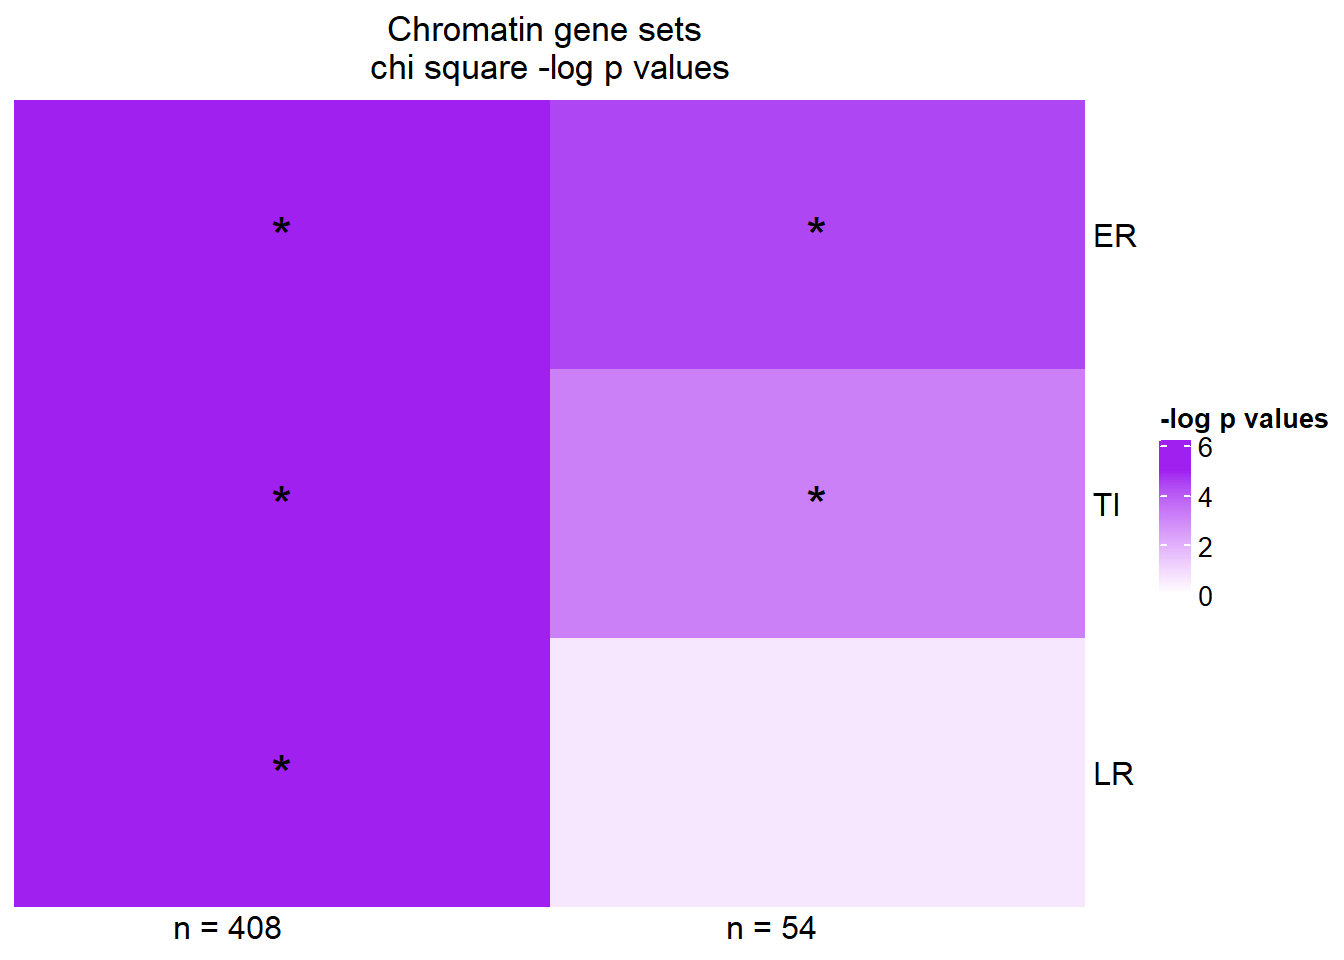
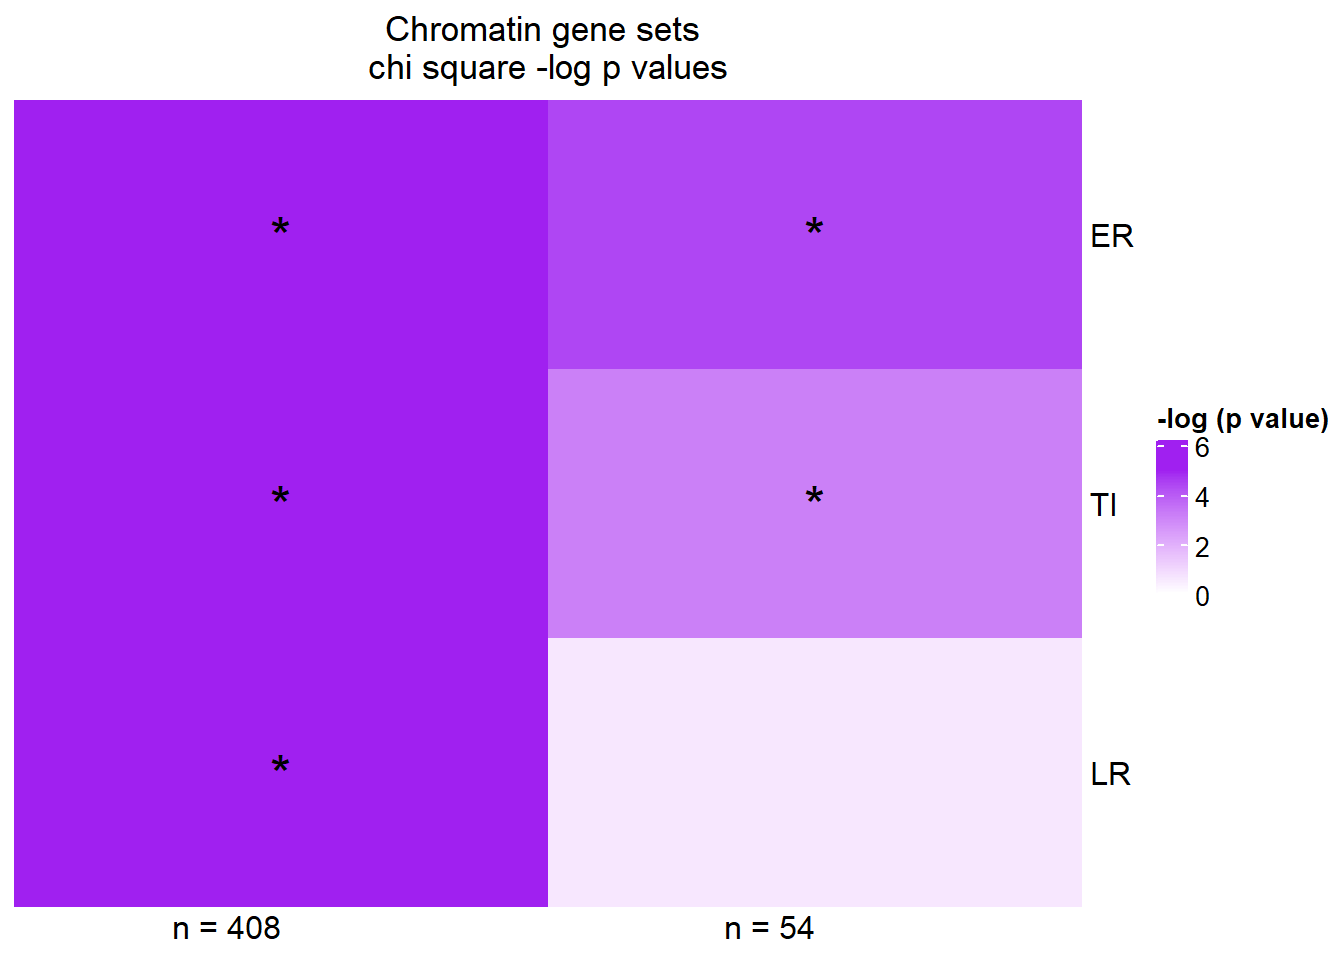
Build site.

diff --git a/docs/other_analysis.html b/docs/other_analysis.html
@@ -523,15 +523,15 @@ project makes it easier to run your code on other machines.</p>
 <div class="panel panel-default">
 <div class="panel-heading">
 <p class="panel-title">
-<a data-toggle="collapse" data-parent="#workflowr-checks" href="#strongRepositoryversionstrongahrefhttpsgithubcomreneeisnowhereCardiotoxicitytreee02ca18cfdba1a09e2f8024c8fe2ae3f4d2c8953targetblanke02ca18a">
+<a data-toggle="collapse" data-parent="#workflowr-checks" href="#strongRepositoryversionstrongahrefhttpsgithubcomreneeisnowhereCardiotoxicitytree9afd6a00b03f24ef204973a84e91a5cba0dbce25targetblank9afd6a0a">
 <span class="glyphicon glyphicon-ok text-success"
 aria-hidden="true"></span> <strong>Repository version:</strong>
-<a href="https://github.com/reneeisnowhere/Cardiotoxicity/tree/e02ca18cfdba1a09e2f8024c8fe2ae3f4d2c8953" target="_blank">e02ca18</a>
+<a href="https://github.com/reneeisnowhere/Cardiotoxicity/tree/9afd6a00b03f24ef204973a84e91a5cba0dbce25" target="_blank">9afd6a0</a>
 </a>
 </p>
 </div>
 <div
[2 lines of base64/hex data omitted]
 class="panel-collapse collapse">
 <div class="panel-body">
 <p>
@@ -541,7 +541,7 @@ reproducibility.
 </p>
 <p>
 The results in this page were generated with repository version
-<a href="https://github.com/reneeisnowhere/Cardiotoxicity/tree/e02ca18cfdba1a09e2f8024c8fe2ae3f4d2c8953" target="_blank">e02ca18</a>.
+<a href="https://github.com/reneeisnowhere/Cardiotoxicity/tree/9afd6a00b03f24ef204973a84e91a5cba0dbce25" target="_blank">9afd6a0</a>.
 See the <em>Past versions</em> tab to see a history of the changes made
 to the R Markdown and HTML files.
 </p>
@@ -677,32 +677,7 @@ Untracked files:
     Untracked:  motif_LR.txt
     Untracked:  motif_NR.txt
     Untracked:  motif_TI.txt
-    Untracked:  output/DNRmeQTLs.RDS
-    Untracked:  output/DNRmeSNPs.RDS
-    Untracked:  output/DNRreQTLs.RDS
-    Untracked:  output/DOXmeQTLs.RDS
-    Untracked:  output/DOXmeSNPs.RDS
-    Untracked:  output/DOXreQTLs.RDS
-    Untracked:  output/EPImeQTLs.RDS
-    Untracked:  output/EPImeSNPs.RDS
-    Untracked:  output/EPIreQTLs.RDS
-    Untracked:  output/Fig_summary1.png
-    Untracked:  output/GWAS_goi.csv
-    Untracked:  output/MTXmeQTLs.RDS
-    Untracked:  output/MTXmeSNPs.RDS
-    Untracked:  output/MTXreQTLs.RDS
-    Untracked:  output/Sup4seoane.csv
-    Untracked:  output/egenes.csv
-    Untracked:  output/egenes_hgnc.csv
-    Untracked:  output/egenes_set.csv
-    Untracked:  output/figure_1.Rmd
-    Untracked:  output/heart_gtex.csv
-    Untracked:  output/knowles4.RDS
-    Untracked:  output/knowles5.RDS
-    Untracked:  output/not_eqtls_GTEX.csv
     Untracked:  output/output-old/
-    Untracked:  output/plan2plot.png
-    Untracked:  output/plan48ldh.png
     Untracked:  reneebasecode.R
 
 </code></pre>
@@ -749,6 +724,40 @@ Message
 </tr>
 </thead>
 <tbody>
+<tr>
+<td>
+Rmd
+</td>
+<td>
+<a href="https://github.com/reneeisnowhere/Cardiotoxicity/blob/9afd6a00b03f24ef204973a84e91a5cba0dbce25/analysis/other_analysis.Rmd" target="_blank">9afd6a0</a>
+</td>
+<td>
+reneeisnowhere
+</td>
+<td>
+2023-06-15
+</td>
+<td>
+fixing wflow error
+</td>
+</tr>
+<tr>
+<td>
+html
+</td>
+<td>
+<a href="https://rawcdn.githack.com/reneeisnowhere/Cardiotoxicity/6b03af2d301e424370c468bea4857b159cbb7df8/docs/other_analysis.html" target="_blank">6b03af2</a>
+</td>
+<td>
+reneeisnowhere
+</td>
+<td>
+2023-06-15
+</td>
+<td>
+Build site.
+</td>
+</tr>
 <tr>
 <td>
 html
@@ -5729,9 +5738,9 @@ supp45Xmat &lt;- supp45X %&gt;%
   rename(c(&quot;n = 408&quot;= pval1, &quot;n = 54&quot;=pval4)) %&gt;% 
   as.matrix()
 
-Heatmap( supp45Xmat,
+Heatmap(supp45Xmat,
          column_title=&quot;Chromatin gene sets \nchi square -log p values&quot;, 
-         name = &quot;-log p values&quot;, 
+         name = &quot;-log (p value)&quot;, 
          cluster_rows = FALSE, 
          cluster_columns = FALSE, 
          column_names_rot = 0,
